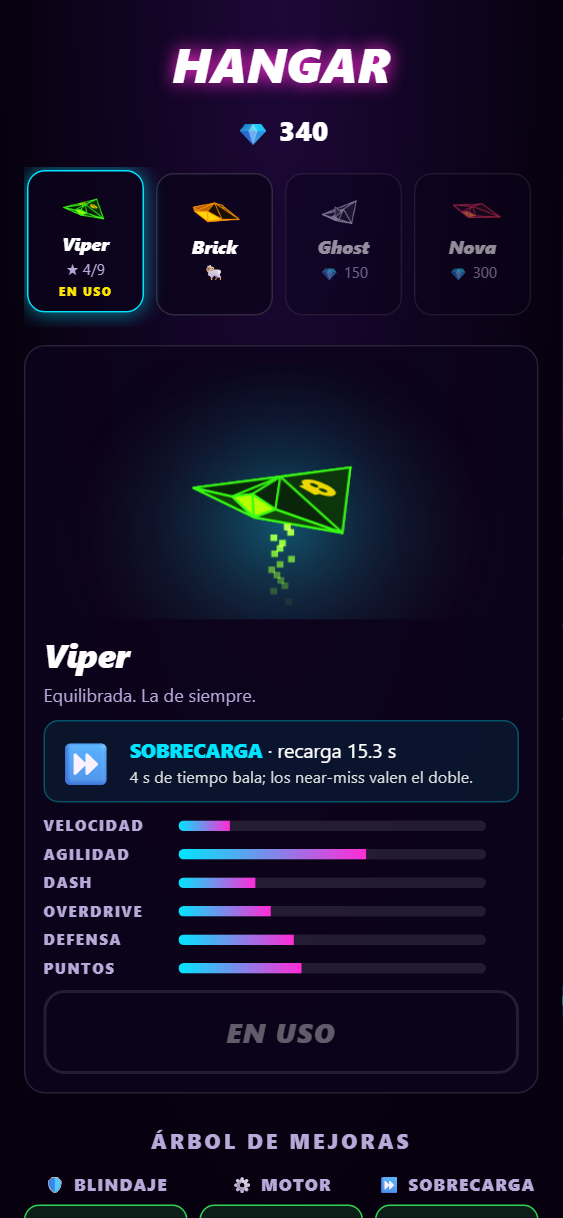
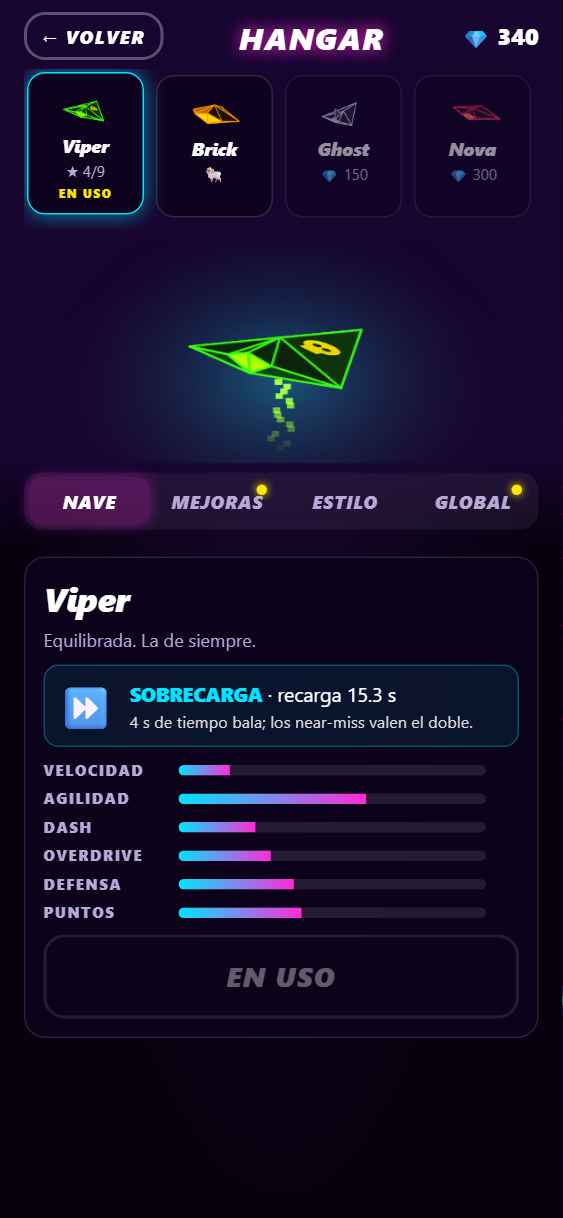
Hangar por pestañas con la nave siempre a la vista
- Cabecera fija: volver, gemas, carrusel, vista 3D y pestañas. La nave
  se ve mientras mejoras o personalizas.
- Pestañas NAVE, MEJORAS, ESTILO y GLOBAL: una sección cada vez (se
  acabó la página eterna). Se recuerda la última y un puntito avisa de
  lo que ya puedes comprar.
- Al comprar una mejora la nave destella y da una vuelta.
- El canvas 3D se crea una vez y sus listeners ya no se duplican en
  cada repintado.
- Bot: la espera del cofre tiene tope (bajo carga podía colgar un test).

diff --git a/js/ui.js b/js/ui.js
@@ -10,7 +10,7 @@ import { BOSS_NAMES, BIOMES } from './world.js';
 import { GROUPS, isUnlocked, lockText, buyCosmetic, equip, equipped, itemsFor, emblemOpts, setEmblemStyle, EMBLEM_AT, EMBLEM_COLORS } from './cosmetics.js';
 import { drawShip, emblemPath } from './shipdraw.js';
 import { trailFx, boomFx, makeParticles } from './cosfx.js';
-import { RARITY, CARDS, CARD_BY_ID, SHIPS, META, SYNERGIES, offerCards, availableCards, synergyHint, shipLvls, shipProfile, treeOf, PROFILE_KEYS } from './upgrades.js';
+import { RARITY, CARDS, CARD_BY_ID, SHIPS, META, SYNERGIES, offerCards, availableCards, synergyHint, shipLvls, shipProfile, treeOf, PROFILE_KEYS, TREE_COSTS } from './upgrades.js';
 import { newRun, pickCard, resume, effSpeed, useAbility, progress } from './game.js';
 import { ABILITIES, readiness } from './abilities.js';
 import { levelById, visibleSectors, frontier, FIXED_SECTORS, starsOf, starCount, totalStars, isSectorOpen, isLevelOpen } from './campaign.js';
@@ -222,6 +222,17 @@ export const ui = {
   showHangar(viewId = ui.hangarView || save.ship) {
     ui.hangarView = viewId;
     G.mode = 'hangar';
+    ui.hangarTab ||= 'nave';
+    if (!ui._tabsReady) {
+      ui._tabsReady = true;
+      for (const b of $('hTabs').querySelectorAll('button')) {
+        tap(b, () => {
+          ui.hangarTab = b.dataset.tab;
+          ui.showHangar();
+          $('hangar').scrollTop = 0; // cada pestaña empieza arriba, justo bajo la nave
+        });
+      }
+    }
     $('hGems').textContent = fmt(save.gems);
     const view = SHIPS.find((s) => s.id === viewId) || SHIPS[0];
     const owned = save.ships.includes(view.id);
@@ -262,7 +273,6 @@ export const ui = {
     else if (owned) action = '<button class="btn" id="btnEquip">EQUIPAR</button>';
     else action = `<button class="btn big" id="btnBuyShip" ${save.gems < view.cost ? 'disabled' : ''}>COMPRAR · 💎 ${view.cost}</button>`;
     $('shipDetail').innerHTML = `
-      <canvas id="hangarView" class="hangar-view" aria-label="Nave en 3D: arrastra para girarla"></canvas>
       <div class="sd-head" style="--sc:${view.color}"><div><h3>${view.name}</h3><small>${view.desc}</small></div></div>
       <div class="sd-ability"><span>${ab.icon}</span><div><b>${ab.name}</b> · recarga ${(ab.cd * (lv.c >= 1 ? 0.85 : 1)).toFixed(1)} s<br><small>${ab.desc}</small></div></div>
       <div class="stats">${bars}</div>
@@ -302,6 +312,7 @@ export const ui = {
           persist();
           sfx.chest();
           fx.vibe([20, 30, 60]);
+          if (ui._hv) { ui._hv.flash = 1; ui._hv.boost = Math.PI * 2; } // la nave lo celebra arriba
           ui.showHangar();
           tree.querySelector(`.b-${br.key} .node:nth-of-type(${i + 1})`)?.classList.add('just');
         });
@@ -418,6 +429,22 @@ export const ui = {
       });
       ml.appendChild(row);
     }
+
+    // pestañas: solo se ve la activa; un puntito avisa de que hay algo que ya puedes comprar
+    const lvNow = shipLvls(save.shipLvl, view.id);
+    const treeBuy = owned && ['a', 'b', 'c'].some((k) => lvNow[k] < 3 && save.gems >= TREE_COSTS[k][lvNow[k]]);
+    const dots = {
+      nave: !owned && save.gems >= view.cost,
+      mejoras: treeBuy,
+      estilo: false,
+      global: META.some((m) => !save.meta[m.id] && save.gems >= m.cost),
+    };
+    for (const b of $('hTabs').querySelectorAll('button')) {
+      b.classList.toggle('on', b.dataset.tab === ui.hangarTab);
+      b.classList.toggle('dot', !!dots[b.dataset.tab]);
+      b.setAttribute('aria-selected', b.dataset.tab === ui.hangarTab);
+    }
+    for (const panel of $('hangar').querySelectorAll('.tab-panel')) panel.classList.toggle('hidden', panel.dataset.panel !== ui.hangarTab);
     show('hangar');
   },
 
@@ -669,14 +696,18 @@ export const ui = {
     const W = cv.clientWidth || 300, H = cv.clientHeight || 170;
     cv.width = W * dpr;
     cv.height = H * dpr;
-    const st = (ui._hv = { ship, yaw: ui._hv?.yaw ?? 0.6, drag: null, spin: 0.7 });
-    cv.addEventListener('pointerdown', (e) => { st.drag = e.clientX; cv.setPointerCapture(e.pointerId); });
-    cv.addEventListener('pointermove', (e) => {
-      if (st.drag === null) return;
-      st.yaw += (e.clientX - st.drag) * 0.012;
-      st.drag = e.clientX;
-    });
-    cv.addEventListener('pointerup', () => { st.drag = null; });
+    // el estado se conserva entre repintados (giro, destello); el canvas es siempre el mismo
+    ui._hv = { yaw: 0.6, drag: null, spin: 0.7, flash: 0, boost: 0, ...ui._hv, ship };
+    if (!cv.dataset.ready) {
+      cv.dataset.ready = '1';
+      cv.addEventListener('pointerdown', (e) => { ui._hv.drag = e.clientX; cv.setPointerCapture(e.pointerId); });
+      cv.addEventListener('pointermove', (e) => {
+        if (ui._hv.drag === null) return;
+        ui._hv.yaw += (e.clientX - ui._hv.drag) * 0.012;
+        ui._hv.drag = e.clientX;
+      });
+      cv.addEventListener('pointerup', () => { ui._hv.drag = null; });
+    }
     if (ui._hvRunning) return;
     ui._hvRunning = true;
     let last = performance.now();
@@ -686,6 +717,13 @@ export const ui = {
       const s = ui._hv, dt = Math.min(0.05, (now - last) / 1000);
       last = now;
       if (s.drag === null) s.yaw += dt * s.spin;
+      // vuelta rápida al comprar una mejora
+      if (s.boost > 0) {
+        const d = Math.min(s.boost, dt * 9);
+        s.yaw += d;
+        s.boost -= d;
+      }
+      s.flash = Math.max(0, s.flash - dt * 1.8);
       const c = view.getContext('2d');
       const w = view.width, h = view.height;
       c.setTransform(1, 0, 0, 1, 0, 0);
@@ -715,6 +753,13 @@ export const ui = {
         trailFx(parts, c, lk.trail.id, sx, sy + size * 0.1, size * 1.2, pal.glow, 30, now / 1000);
       }
       parts.draw(c, w, h);
+      if (s.flash > 0) {
+        const fg = c.createRadialGradient(sx, sy, 0, sx, sy, w * 0.5);
+        fg.addColorStop(0, `rgba(255,255,255,${(0.7 * s.flash).toFixed(3)})`);
+        fg.addColorStop(1, 'rgba(255,255,255,0)');
+        c.fillStyle = fg;
+        c.fillRect(0, 0, w, h);
+      }
       requestAnimationFrame(loop);
     };
     requestAnimationFrame(loop);

diff --git a/test/e2e/hangar.spec.js b/test/e2e/hangar.spec.js
@@ -14,6 +14,7 @@ test('hangar: comprar un nodo del árbol descuenta gemas y persiste tras recarga
   await page.goto('/?nosw');
   await page.locator('#btnHangar').click();
   await expect(page.locator('#shipCarousel .ship-chip')).toHaveCount(7);
+  await page.locator('#hTabs [data-tab="mejoras"]').click();
   await expect(page.locator('#shipTree .node')).toHaveCount(9);
 
   // BLINDAJE nivel 1 (40 💎) y luego nivel 2 (90 💎)
@@ -31,6 +32,7 @@ test('hangar: comprar un nodo del árbol descuenta gemas y persiste tras recarga
   expect(saved.gems).toBe(70);
   expect(saved.shipLvl.viper).toEqual({ a: 2, b: 0, c: 0 });
   await page.locator('#btnHangar').click();
+  await page.locator('#hTabs [data-tab="mejoras"]').click();
   await expect(page.locator('#shipTree .b-a .node.bought')).toHaveCount(2);
   expect(errors).toEqual([]);
 });
@@ -41,8 +43,10 @@ test('hangar: no se puede mejorar una nave que no tienes', async ({ page }) => {
   await page.locator('#btnHangar').click();
   await page.locator('#shipCarousel .ship-chip').nth(5).click(); // Raptor, sin comprar
   await expect(page.locator('#btnBuyShip')).toBeVisible();
+  await page.locator('#hTabs [data-tab="mejoras"]').click();
   await page.locator('#shipTree .b-a .node').nth(0).click();
   expect(await page.evaluate((k) => JSON.parse(localStorage.getItem(k)).gems, SAVE)).toBe(999);
+  await page.locator('#hTabs [data-tab="nave"]').click();
   await page.locator('#btnBuyShip').click();
   await expect(page.locator('#shipCarousel .ship-chip.equipped b')).toHaveText('Raptor');
   expect(await page.evaluate((k) => JSON.parse(localStorage.getItem(k)).gems, SAVE)).toBe(599);
@@ -79,6 +83,7 @@ test('personalización por nave: probar no gasta, comprar vale solo para esa nav
   }, SAVE);
   await page.goto('/?nosw');
   await page.locator('#btnHangar').click();
+  await page.locator('#hTabs [data-tab="estilo"]').click();
   await expect(page.locator('#cosTitle')).toHaveText('Personalizar · Viper');
 
   // PROBAR: tocar algo bloqueado lo pone en la vista 3D sin gastar nada
@@ -149,6 +154,7 @@ test('emblema: posición y color por nave, se guardan', async ({ page }) => {
   }, SAVE);
   await page.goto('/?nosw');
   await page.locator('#btnHangar').click();
+  await page.locator('#hTabs [data-tab="estilo"]').click();
   await expect(page.locator('.cos-style .seg button.on')).toHaveText('Alas');
   await page.locator('.cos-style [data-at="cola"]').click();
   await page.locator('.cos-style [data-color="cyan"]').click();
@@ -159,7 +165,35 @@ test('emblema: posición y color por nave, se guardan', async ({ page }) => {
   expect(eq).toMatchObject({ emblem: 'star', emblemAt: 'cola', emblemColor: 'cyan' });
   // sin emblema no hay opciones de estilo
   await page.locator('#btnHangar').click();
+  await page.locator('#hTabs [data-tab="estilo"]').click();
   await page.locator('[data-cos="emblem:none"]').click();
   await expect(page.locator('.cos-style')).toHaveCount(0);
+  expect(errors).toEqual([]);
+});
+
+test('hangar por pestañas: una sección cada vez, la nave siempre a la vista y la pestaña se recuerda', async ({ page }) => {
+  const errors = trackErrors(page);
+  await page.addInitScript((k) => localStorage.setItem(k, JSON.stringify({ v: 3, runs: 3, gems: 500, ship: 'viper', ships: ['viper'] })), SAVE);
+  await page.goto('/?nosw');
+  await page.locator('#btnHangar').click();
+  // por defecto, NAVE; el resto de secciones, ocultas
+  await expect(page.locator('#shipDetail')).toBeVisible();
+  await expect(page.locator('#shipTree')).toBeHidden();
+  await expect(page.locator('#cosmetics')).toBeHidden();
+  // hay mejoras al alcance: la pestaña lo avisa
+  await expect(page.locator('#hTabs [data-tab="mejoras"]')).toHaveClass(/dot/);
+  await page.locator('#hTabs [data-tab="estilo"]').click();
+  await expect(page.locator('#cosmetics')).toBeVisible();
+  await expect(page.locator('#shipDetail')).toBeHidden();
+  // tras bajar por la lista, la nave 3D sigue en pantalla (cabecera fija)
+  await page.evaluate(() => { document.getElementById('hangar').scrollTop = 2000; });
+  const box = await page.locator('#hangarView').boundingBox();
+  expect(box.y).toBeGreaterThanOrEqual(0);
+  expect(box.y + box.height).toBeLessThanOrEqual(812);
+  // salir y volver: sigue en ESTILO
+  await page.locator('#btnHangarBack').click();
+  await page.locator('#btnHangar').click();
+  await expect(page.locator('#hTabs [data-tab="estilo"]')).toHaveClass(/\bon\b/);
+  await expect(page.locator('#cosmetics')).toBeVisible();
   expect(errors).toEqual([]);
 });

diff --git a/style.css b/style.css
@@ -240,7 +240,7 @@ h3 { margin: 10px 0 0; font: 800 14px var(--font); color: var(--muted); text-tra
 .ship-chip.equipped::after { content: 'EN USO'; font: 900 8px var(--font); color: var(--yellow); letter-spacing: 1px; }
 .ship-chip.locked { opacity: .55; }
 
-.hangar-view { width: 100%; height: 170px; display: block; touch-action: none; cursor: grab; border-radius: 10px; background: radial-gradient(ellipse at 50% 70%, rgba(255,255,255,.05), transparent 70%); }
+.hangar-view { width: min(440px, 100%); height: 150px; display: block; touch-action: none; cursor: grab; border-radius: 10px; background: radial-gradient(ellipse at 50% 70%, rgba(255,255,255,.05), transparent 70%); }
 .cosmetics { width: min(440px, 100%); display: flex; flex-direction: column; gap: 8px; }
 .cos-row > small { display: block; margin-bottom: 4px; font: 900 11px var(--font); letter-spacing: 1px; color: var(--muted); }
 .cos-chips { display: flex; gap: 6px; overflow-x: auto; padding-bottom: 4px; touch-action: pan-x; }
@@ -438,3 +438,25 @@ h3 { margin: 10px 0 0; font: 800 14px var(--font); color: var(--muted); text-tra
 .btn.prestige small { display: block; font-size: 10px; color: #fff; opacity: .8; }
 .btn.prestige.confirm { border-color: #ff2d55; color: #ff2d55; box-shadow: 0 0 18px rgba(255,45,85,.6); }
 .ship-chip.gold { border-color: #ffd60a; box-shadow: 0 0 10px rgba(255,214,10,.45), inset 0 0 8px rgba(255,214,10,.2); }
+
+/* ---------- Hangar: cabecera fija y pestañas ---------- */
+#hangar { padding-top: 0; gap: 10px; }
+#hangar > :first-child { margin-top: 0; }
+.hangar-top {
+  position: sticky; top: 0; z-index: 4; width: calc(100% + 32px); margin: 0 -16px;
+  display: flex; flex-direction: column; align-items: center; gap: 6px;
+  padding: calc(env(safe-area-inset-top, 0px) + 8px) 16px 8px;
+  background: linear-gradient(#170530 85%, rgba(23,5,48,.0)); backdrop-filter: blur(6px);
+}
+.h-bar { width: min(440px, 100%); display: flex; align-items: center; justify-content: space-between; gap: 8px; }
+.h-bar > b { font: italic 900 20px var(--font); letter-spacing: 1px; text-shadow: 0 0 12px var(--pink); }
+.h-bar .gems { margin: 0; font-size: 15px; }
+.h-back { width: auto; padding: 6px 10px; font-size: 12px; animation: none; }
+.h-tabs { width: min(440px, 100%); display: grid; grid-template-columns: repeat(4, 1fr); gap: 4px; padding: 3px; border-radius: 12px; background: rgba(255,255,255,.06); }
+.h-tabs button { position: relative; padding: 8px 2px; border: 0; border-radius: 9px; background: transparent; color: var(--muted); font: italic 900 12px var(--font); letter-spacing: .5px; }
+.h-tabs button.on { background: rgba(255,43,214,.22); color: #fff; box-shadow: 0 0 10px rgba(255,43,214,.35); }
+.h-tabs button.dot::after { content: ''; position: absolute; top: 5px; right: 8px; width: 7px; height: 7px; border-radius: 50%; background: var(--yellow); box-shadow: 0 0 6px var(--yellow); }
+.tab-panel { width: min(440px, 100%); display: flex; flex-direction: column; align-items: center; gap: 10px; }
+.tab-panel.hidden { display: none; }
+.tab-panel .hint { margin: 0; }
+.cos-preview { position: static; }

diff --git a/index.html b/index.html
@@ -70,18 +70,27 @@
   </section>
 
   <section id="hangar" class="overlay hidden">
-    <h2>HANGAR</h2>
-    <p class="gems">💎 <b id="hGems">0</b></p>
-    <div id="shipCarousel" class="carousel"></div>
-    <div id="shipDetail" class="ship-detail"></div>
-    <h3>Árbol de mejoras</h3>
-    <div id="shipTree" class="tree"></div>
-    <h3 id="cosTitle">Personalizar</h3>
-    <div id="cosPreview" class="cos-preview hidden"></div>
-    <div id="cosmetics" class="cosmetics"></div>
-    <h3>Mejoras globales</h3>
-    <div id="metaList" class="list"></div>
-    <button class="btn" id="btnHangarBack">VOLVER</button>
+    <!-- cabecera fija: la nave se ve siempre mientras mejoras o personalizas -->
+    <div class="hangar-top">
+      <div class="h-bar">
+        <button class="btn ghost h-back" id="btnHangarBack" aria-label="Volver">← VOLVER</button>
+        <b>HANGAR</b>
+        <span class="gems">💎 <b id="hGems">0</b></span>
+      </div>
+      <div id="shipCarousel" class="carousel"></div>
+      <canvas id="hangarView" class="hangar-view" aria-label="Nave en 3D: arrastra para girarla"></canvas>
+      <div id="hTabs" class="h-tabs" role="tablist">
+        <button data-tab="nave" role="tab">NAVE</button>
+        <button data-tab="mejoras" role="tab">MEJORAS</button>
+        <button data-tab="estilo" role="tab">ESTILO</button>
+        <button data-tab="global" role="tab">GLOBAL</button>
+      </div>
+      <div id="cosPreview" class="cos-preview hidden"></div>
+    </div>
+    <div class="tab-panel" data-panel="nave"><div id="shipDetail" class="ship-detail"></div></div>
+    <div class="tab-panel" data-panel="mejoras"><div id="shipTree" class="tree"></div></div>
+    <div class="tab-panel" data-panel="estilo"><h3 id="cosTitle">Personalizar</h3><div id="cosmetics" class="cosmetics"></div></div>
+    <div class="tab-panel" data-panel="global"><p class="hint">Valen para todas las naves.</p><div id="metaList" class="list"></div></div>
   </section>
 
   <section id="achs" class="overlay hidden">

diff --git a/test/e2e/helpers.js b/test/e2e/helpers.js
@@ -38,7 +38,9 @@ export async function botInPage({ seconds, god = false, until = null, ability = 
     }
     if (G.mode === 'shop') { document.getElementById('btnShopDone').click(); continue; }
     if (G.mode === 'chest') {
-      while (!visible('btnChestOk')) await wait(50);
+      // la animación del cofre usa temporizadores reales: con la máquina cargada pueden tardar;
+      // esperar como mucho 3 s y pulsar igual (el botón ya tiene su manejador)
+      for (let i = 0; i < 60 && !visible('btnChestOk'); i++) await wait(50);
       document.getElementById('btnChestOk').click();
       continue;
     }

diff --git a/test/e2e/progress.spec.js b/test/e2e/progress.spec.js
@@ -82,6 +82,7 @@ test('prestigio: en el rango 30 aparece el botón, pide confirmación y renace',
   expect(s.xp).toBe(0);
   // el emblema Laurel ya se puede usar y los modificadores siguen abiertos
   await page.locator('#btnHangar').click();
+  await page.locator('#hTabs [data-tab="estilo"]').click();
   await expect(page.locator('[data-cos="emblem:laurel"]')).not.toHaveClass(/locked/);
   await page.locator('#btnHangarBack').click();
   await page.locator('#btnMods').click();

diff --git a/README.md b/README.md
@@ -123,7 +123,10 @@ Además del modo infinito hay una **campaña de 16 niveles** en 4 sectores (Dist
   - ⚙ **MOTOR:** agilidad, una carga extra de DASH y más OVERDRIVE.
   - **La rama de la habilidad:** recarga, potencia y, en el nivel 3, una **mutación** que cambia cómo funciona.
 - **Ficha de cada nave:** 6 barras (velocidad, agilidad, DASH, overdrive, defensa y puntos), calculadas con las reglas reales del juego y comparadas con tu nave equipada (▲ mejor, ▼ peor).
-- **Vista 3D:** la nave gira en el hangar (arrástrala para girarla) con su pintura, su emblema y su estela.
+- **Hangar por pestañas:** NAVE (ficha y compra), MEJORAS (árbol), ESTILO (personalización) y GLOBAL.
+  - La cabecera con el carrusel y la **vista 3D queda fija**: ves la nave mientras la mejoras o la personalizas.
+  - Un puntito avisa de qué pestaña tiene algo que ya puedes comprar.
+- **Vista 3D:** la nave gira en el hangar (arrástrala para girarla) con su pintura, su emblema y su estela; al comprar una mejora destella y da una vuelta.
 - **Personalización por nave:** cada nave lleva su propia **pintura, estela, explosión y emblema**.
   - Lo que compras con gemas vale **solo para esa nave**. Lo que da el rango o un logro vale para todas.
   - **Exclusivos** que se ganan usando la nave: 2 pinturas (30 tramos y 5 jefes con ella) y su **insignia**, la silueta de la propia nave (20 partidas).
